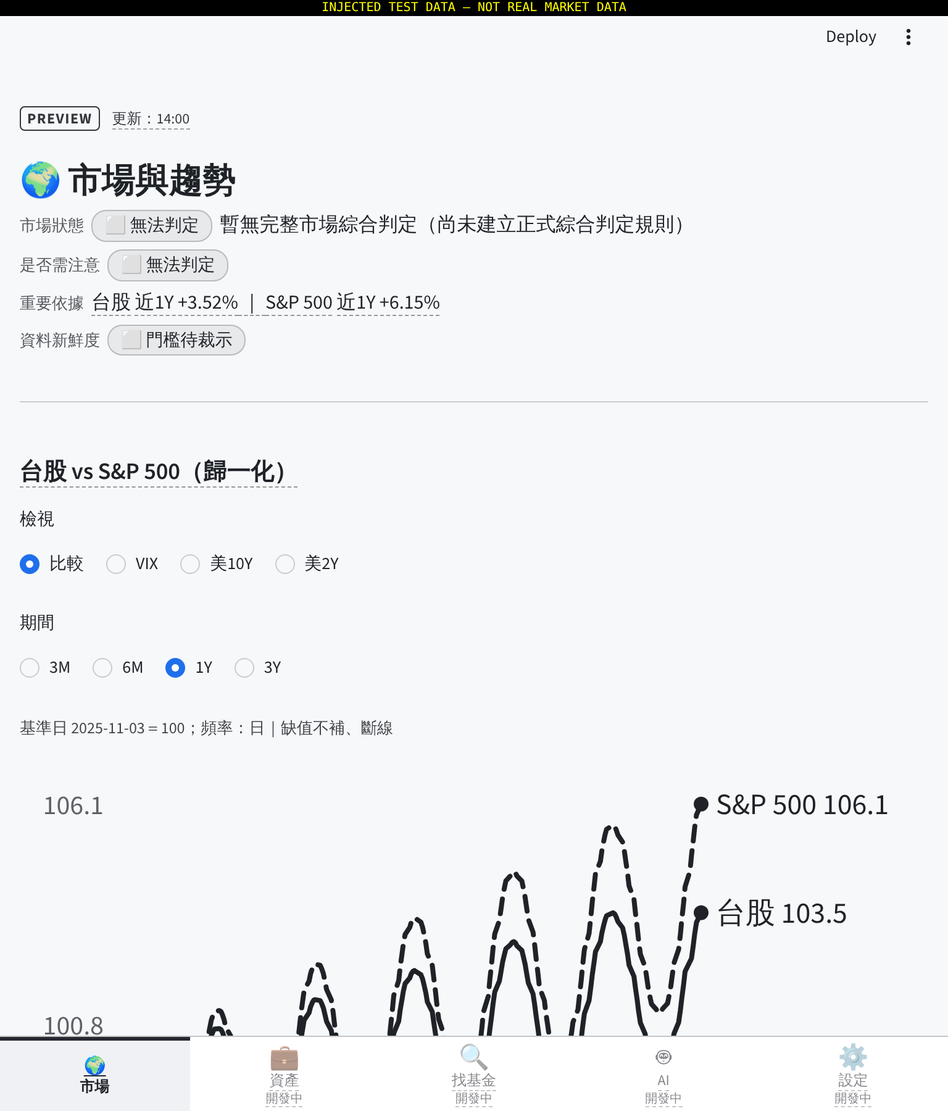
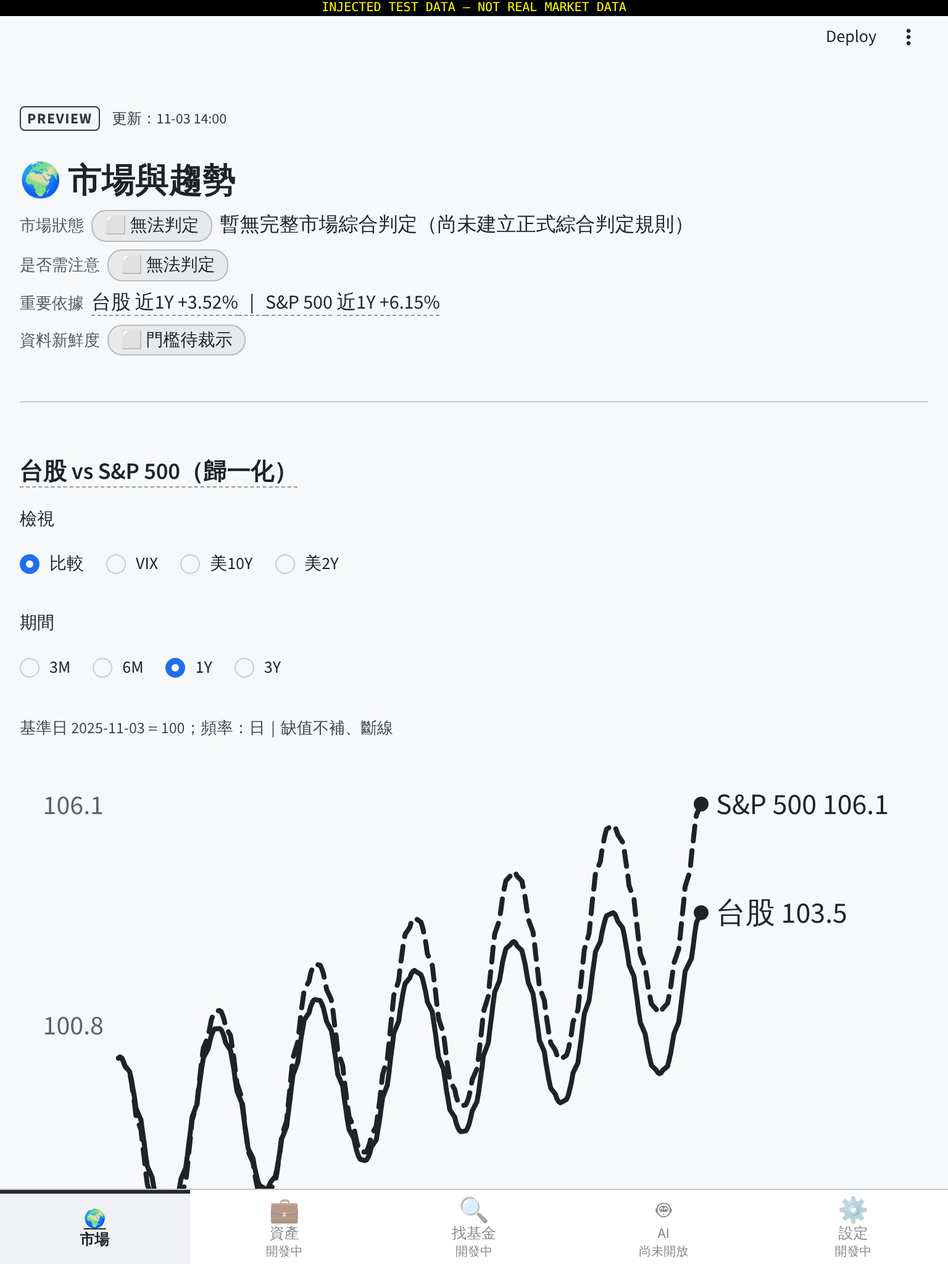
文件與證據：Shell 驗收裁示落地（81 §10.2 降級首屏定義／方案比較／前後計數、80 §17、BACKLOG BL-0536、HANDOFF、量測重拍）

diff --git a/docs/evidence/bl0536_shell_h5_2026-11-03/measure.js b/docs/evidence/bl0536_shell_h5_2026-11-03/measure.js
@@ -1,14 +1,17 @@
-// H5／Shell 量測（Playwright chromium）。用法：node measure.js <scenario> <width> <height> <out.png> [scroll]
+// H5／Shell 量測（Playwright chromium）。用法：node measure.js <scenario> <width> <height> <out.png> [scroll] [viewLabel]
+// viewLabel（選填）：點選主圖檢視的 radio 標籤文字（例：美10Y），量該檢視的首屏。
+// 首屏名額計法（docs/v2/81 第 10.2 節）：頁級 chip（.uv3-chip，含 Status Bar 與側欄內的）＋頁級核心數字（.uv3-evidence，一格一個；格內以狀態 chip 取代數字時只算一格，不重複計 chip）。
 // 資料是 launch_injected_data.py 注入的人造資料，**不是真實行情**；圖底部有黃字標示。
 const { chromium } = require('/opt/node-tools/node_modules/playwright');
 (async () => {
-  const [,, scenario, w, h, out, scroll] = process.argv;
+  const [,, scenario, w, h, out, scroll, viewLabel] = process.argv;
   const b = await chromium.launch();
   const ctx = await b.newContext({ viewport: { width: +w, height: +h }, deviceScaleFactor: 2 });
   const p = await ctx.newPage();
-  await p.goto(`http://localhost:8599/?scenario=${scenario}`, { waitUntil: 'networkidle' });
+  await p.goto(`http://localhost:${process.env.PORT || 8599}/?scenario=${scenario}`, { waitUntil: 'networkidle' });
   await p.waitForSelector('[data-field="market_state"]', { state: 'attached', timeout: 60000 });
   await p.waitForTimeout(1500);
+  if (viewLabel) { await p.getByText(viewLabel, { exact: true }).first().click(); await p.waitForTimeout(2500); }
   const m = await p.evaluate((vh) => {
     const rect = (e) => { if (!e) return null; const r = e.getBoundingClientRect(); return { top: Math.round(r.top), bottom: Math.round(r.bottom), left: Math.round(r.left), right: Math.round(r.right), w: Math.round(r.width), h: Math.round(r.height) }; };
     const vis = (e) => !!e && getComputedStyle(e).display !== 'none' && e.getBoundingClientRect().height > 0;
@@ -19,6 +22,13 @@ const { chromium } = require('/opt/node-tools/node_modules/playwright');
     const chart = q('.uv3-chart');
     const body = [...document.querySelectorAll('.uv3-chip')].filter(e => !e.closest('.uv3-statusbar') && !e.closest('[data-testid="stSidebar"]') && e.getBoundingClientRect().top < navTop);
     const nums = [...document.querySelectorAll('.uv3-evidence')].filter(e => e.getBoundingClientRect().top < navTop);
+    const inView = (e) => vis(e) && e.getBoundingClientRect().top < navTop;
+    const allChips = [...document.querySelectorAll('.uv3-chip')].filter(inView);          // 含 Status Bar、側欄
+    const standalone = allChips.filter(e => !e.closest('.uv3-evidence'));                  // 不在核心數字格內的 chip
+    const sbChips = allChips.filter(e => e.closest('.uv3-statusbar') || e.closest('[data-testid="stSidebar"]')).length;
+    const summary = q('[data-summary="series-status"]');
+    const warnTexts = [...nums.map(e => e.innerText), summary ? summary.innerText : ''].join(' ');
+    const slots = standalone.length + nums.length;
     return {
       scrollWidth: document.documentElement.scrollWidth, clientWidth: document.documentElement.clientWidth,
       bottomNavVisible: vis(nav), sidebarVisible: vis(side), bottomNav: rect(nav), sidebar: rect(side),
@@ -27,6 +37,8 @@ const { chromium } = require('/opt/node-tools/node_modules/playwright');
       marketState: field('market_state'), attention: field('attention'), chart: rect(chart),
       firstScreenVisibleHeight: Math.round(navTop),
       chipsInFirstScreen: body.length, evidenceNumbersInFirstScreen: nums.length,
+      firstScreenSlots: slots, standaloneChips: standalone.length, evidenceSlots: nums.length, chromeChips: sbChips,
+      seriesStatusSummaryVisible: inView(summary), visibleWarning: /資料未備|取數失敗|尚未設定|缺資料/.test(warnTexts),
       main: rect(q('.stMainBlockContainer')),
     };
   }, +h);

diff --git a/docs/evidence/bl0536_shell_h5_2026-11-03/launch_injected_data.py b/docs/evidence/bl0536_shell_h5_2026-11-03/launch_injected_data.py
@@ -14,6 +14,8 @@ elif scenario == "both_missing": kw = dict(tw="missing", us="missing")
 elif scenario == "stale": kw = dict(us_dates=ms.weekdays("2021-06-01", "2026-10-30"))
 elif scenario == "partial": kw = dict(us_dates=ms.weekdays("2024-11-01", ms.LAST_US))
 elif scenario == "nokey": kw = dict(key=""); tkw = dict(errors={"credit_spread_pct": "未設定 FRED_API_KEY", "term_spread_pct": "未設定 FRED_API_KEY"}, drop=("credit_spread_pct", "term_spread_pct"))
+elif scenario == "all_missing": kw = dict(tw="missing", us="missing", vx="missing"); tkw = dict(drop=("vol_index", "credit_spread_pct", "term_spread_pct", "policy_rate_pct"))
+elif scenario == "all_failed": kw = dict(tw="error", us="error", vx="error"); tkw = dict(errors={k: "HTTP 429 injected" for k in ("vol_index", "credit_spread_pct", "term_spread_pct", "policy_rate_pct")}, drop=("vol_index", "credit_spread_pct", "term_spread_pct", "policy_rate_pct"))
 elif scenario == "negative":
     pass
 v = ms.view(**kw)

diff --git a/docs/BACKLOG.md b/docs/BACKLOG.md
@@ -152,6 +152,7 @@
 - **2026-11-03 BL-0536 🌍 正式字樣落盤＋工程資訊外漏守衛＋MKT 對照登記（`DEC-2026-11-03-07`；PR 待開）**：客戶九項正式字樣進 `shared/ui_semantics/rules.py::APPROVED_WORDING`（畫面不再標 pending；`chart_empty` PENDING 列移除）；一般 UI 移除環境變數名與內部原因代碼，新增靜態＋渲染外漏守衛；依據卡 MKT-1～3 對照 44／72（標籤、MKT-2 兩鍵、位數）；~~首屏拆兩枚 chip 超過預算，登記為 Decision Gate、未實作（BL-0536 列內）；~~ → 客戶 2026-11-03 已裁示採 C 並實作、同批用字統一（`DEC-2026-11-03-09`；狀態更新，不是漏刪；決策者：客戶；#1132 scope 已涵蓋）；未新增 BL 列，BACKLOG §3 列數統計未重算；執行組單組寫成，未經第二組驗證。
 - **2026-11-02 BL-0536 批 2a（PORT）＋批 2b（呈現規則資料表／design token）登記（同一 PR、PR 待開；不構成動工授權；`DEC-2026-11-02-05` NG-2 A、`DEC-2026-11-02-09`）**：BL-0536 列尾補批 2a／2b 狀態與後續子項 BL-0536-F1～F6、BL-0536-W1～W5（列內追蹤，不另開 BL，`PROJECT_RULES.md` 13.4 第 3 條）；未新增 BL 列，BACKLOG §3 列數統計未重算；執行組單組寫成，未經第二組驗證。
 - **2026-11-03 Canonical Rule Convergence 登記（docs-only；`DEC-2026-11-03-08`）**：BL-0536 列瘦身為單一狀態（舊整列逐字移 `docs/evidence/history/`）；新增 BL-0538（Latest-Rule-Only 讀法確認，待客戶裁示）、BL-0539（🌍 首屏拆 chip，待客戶裁示）、BL-0540（Missing 字樣／資料健康度承接／🤖 輸出對映，待客戶裁示）、BL-0541（第二階段文件收斂，open）；本批不碰任何 production code。
+- **2026-11-03 Shell 定字與降級首屏收尾登記（`DEC-2026-11-03-11`；不構成動工授權）**：客戶對 #1134 的驗收裁示落地於 BL-0536 列（Shell 字樣單一 SSOT、Status Bar 純文字、降級第一屏 ≤5、仍待驗證六項逐條登記）；逐字 `docs/evidence/decisions/2026-11-03_shell_wording_and_degraded_first_screen_ruling.md`；方案比較與前後計數 `docs/v2/81` 第 10.2 節。不開新 refresh pipeline；💼 線框為其後一批、尚未開始。
 - **2026-10-30 D-3 阻擋項修正批登記（`DEC-2026-10-30-04`；代碼 commit `dc670882`）**：BL-0411 改「fixed（待獨立稽核）」；BL-0525 列尾補 BL-0525-D3 子項狀態（F-13、F-14、F-19、F-2、F-18 已修待獨立稽核；P3 未實作；F-17 未修）；未新增 BL 列，BACKLOG §3 列數統計未重算；實作組單組寫成，未經第二組驗證。
 - **2026-10-30 BL-0525-D3／BL-0525-OAUTH 客戶裁示落盤批登記（`DEC-2026-10-30-04`、`-05`）**：BL-0525 列尾補兩子項裁示（BL-0525-D3 已裁採 P3／β，下一步實作，列內追蹤必修 F-13、F-2、F-14、F-19 與 BL-0411；BL-0525-OAUTH 以 F closed；G deferred）；BL-0411 列改為客戶已裁的 P3 production 前必修（需客戶裁示欄改「否」）；未新增 BL 列，BACKLOG §3 列數統計未重算；由文件組單組寫成，未經第二組驗證。
 - **有到期日**：BL-0217（2026-11-24（約；上限約 11-26））
@@ -942,7 +943,7 @@
 | BL-0533 | ~~open（proposal 未起草；登記不構成動工授權）~~ → ~~open（proposal 已落盤 `docs/v2/80_new_ui2_architecture_proposal.md`；獨立稽核無 blocker、14 個 non-blocker 已修正——總管回報；子項 NG1～NG5 待客戶裁示；登記不構成動工授權）（狀態更新，不是漏刪；2026-11-02）~~ → closed（已裁示：NG-1～NG-5 全採 A，`DEC-2026-11-02-05`；architecture、Reuse Matrix、migration boundary 凍結，五頁 wireframe 為正式 implementation input；實作續於 BL-0536、cutover 守衛 BL-0535；狀態更新，不是漏刪；2026-11-02） | UI／architecture（Decision Gate） | 2026-11-02 | **New UI2 Architecture Proposal＋Reuse Matrix＋五頁 wireframe＋migration／cutover（客戶 2026-11-02 第四則指示；proposal-only）**：依 `DEC-2026-11-02-03` 提出 New UI2（greenfield presentation layer）的架構提案：盤點 ui_v2 與既有 data／services／deterministic logic 的可重用項（Reuse Matrix；不盲目重寫）、五頁 IA 不變的 wireframe（New UI2 版面；79 §9 只是語意示意）、migration／cutover 計畫（預設方向見 DEC；禁止先刪 ui_v2）。~~**待客戶裁示**：目錄命名、ui_v2 freeze policy 細節、preview／cutover 細節、視覺語言沿用範圍、哪些既有 presentation DEC 需 amendment。~~（→ 2026-11-02 已裁示，`DEC-2026-11-02-05`）新增理由：新架構 Gate 有獨立驗收（`PROJECT_RULES.md` 13.4 第 3 條新增條件）。【2026-11-02 proposal 落盤（`docs/v2/80`；狀態更新，不是漏刪）】子項（本列內追蹤，不另開 BL，依 `PROJECT_RULES.md` 13.4 第 3 條；推薦見 80 第 12 節；~~**皆未裁示**，不得記為已決定~~（→ 2026-11-02 皆已裁示 A，`DEC-2026-11-02-05`））：**BL-0533-NG1**｜目錄命名（`ui_v3/`／`ui_next/`／`ui2/`）｜狀態：~~待客戶裁示~~ → 已裁示 A（`DEC-2026-11-02-05`）｜dependency：無｜Phase／Batch：Step 3（與 UI-1～UI-15 一次裁示）｜Decision Gate：是｜類別：UI／architecture｜完成條件：客戶裁示＋DEC；80 `<pkg>` 佔位符回填；**BL-0533-NG2**｜ui_v2 freeze policy（maintenance-only＋行為不變抽取／re-export shim、hard freeze、繼續演進）＋附題：BL-0532 Missing 統一是否也做在 ui_v2｜狀態：~~待客戶裁示~~ → 已裁示 A（`DEC-2026-11-02-05`）｜dependency：無；附題連動 BL-0532｜Phase／Batch：Step 3｜Decision Gate：是｜類別：UI／architecture（涉及 PORT 方式＝migration）｜完成條件：客戶裁示＋DEC；BL-0532 列尾依附題結果加指標；**BL-0533-NG3**｜Preview／cutover（另建 preview app、同 app 隱藏入口、直接替換）｜狀態：~~待客戶裁示~~ → 已裁示 A（`DEC-2026-11-02-05`）｜dependency：選另建 app 時需客戶建 app 與 OAuth redirect 另登記（80 R4）｜Phase／Batch：Step 3｜Decision Gate：是｜類別：UI／architecture（migration）｜完成條件：客戶裁示＋DEC；cutover 步驟依 80 第 10 節回寫；**BL-0533-NG4**｜New UI2 視覺語言沿用範圍｜狀態：~~待客戶裁示~~ → 已裁示 A（`DEC-2026-11-02-05`）｜dependency：無｜Phase／Batch：Step 3｜Decision Gate：是｜類別：UI｜完成條件：客戶裁示＋DEC；Design token 命名依裁示訂定；**BL-0533-NG5**｜Presentation DEC 釋放規則與 amendment 清單（含 `DEC-2026-10-30-01` D1 即 79 UI-12(1)，需客戶明確覆議）｜狀態：~~待客戶裁示~~ → 已裁示 A（`DEC-2026-11-02-05`）｜dependency：UI-12(1)｜Phase／Batch：Step 3｜Decision Gate：是｜類別：UI／governance｜完成條件：客戶裁示＋DEC；被 amend 的 DEC 就地加指標（原字保留）。**原 NG-6（前端框架）已轉為內部決定（維持 Streamlit 現況），不是客戶 Gate**（80 第 12 節附註；`PROJECT_RULES.md` 13.4 第 6 條）。客戶核准後，下一則訊息只能是 Model／Effort Change Gate（`DEC-2026-11-02-04`）。文件組單組。 | `DEC-2026-11-02-03`；`docs/evidence/decisions/2026-11-02_new_ui2_architecture_direction.md` | 是（New UI2 任何實作；BL-0525 Batch E、BL-0532 的實作落點） | #1119 合併 | ~~proposal 落盤 → 客戶裁示命名／freeze／cutover／視覺沿用／presentation DEC amendment → 凍結後才可實作；~~（2026-11-02 已裁示並凍結）關閉依據：`DEC-2026-11-02-05`（本 PR）；被 amend 的 DEC 已就地加指標；實作見 BL-0536；登記不構成動工授權（`CLAUDE.md` §-1） | ~~是~~ → 否（已裁示） |
 | BL-0534 | open（amendment 文字未起草；起草後送客戶核准） | governance（frozen SSOT amendment／data semantics） | 2026-11-02 | **44 `dividend.pay_date` 語意 amendment：Payment Date 與 Estimated Bank Credit Window 拆開**：frozen `docs/v2/44_fund_ui_ssot.md` 第四節 4.3 表 `pay_date` 語意欄寫「實際入帳日；尚未公布時為空」，與 Final Contract（`docs/v2/79` §17.3）「`payment_date`＝基金公司／基金正式發放日，**不得**稱實際銀行入帳日；`estimated_bank_credit_window`＝預估銀行／平台實際入帳區間，無可支持的 deterministic contract 時為 Missing」衝突。客戶裁示：不得直接偷改 frozen 44，建立正式 amendment，把 Payment Date 與 Estimated Bank Credit Window 清楚拆開（`DEC-2026-11-02-07`）。**Gate／程序**：依 44 既有修改程序 ——`PROJECT_RULES.md` 1.2「改凍結檔另開一輪」（交接本第 7 節〈沿用〉約 :4215）＋第 4 節 Stop／Decision Gate（frozen SSOT、正式資料語意）；前例 `DEC-2026-10-27-13`（44 衝突走正式最小解凍、逐項裁示，不是整份放行）與 `DEC-2026-10-27-02`（有限解凍）。44 檔頭未見另一套獨立的解凍程序條文（執行組以 `grep -n 解凍` 掃 44，只見各輪就地解凍註記；不宣稱窮舉）。動 44 時須同步 md5／行數守衛（例 `tests/ui_v2/test_alo_logic.py` 以 md5 鎖 44，`docs/v2/80` 第 11 節）。 | `DEC-2026-11-02-07`；`docs/v2/79` §17.3、§17.4、§17.14 第 4 項；`docs/v2/44_fund_ui_ssot.md` 第四節 4.3 表（只讀） | 是（任何在 UI 以 `pay_date` 表示銀行／平台入帳日的呈現；`ui_v3` 💼 Dividend Calendar 的日期欄） | 無 | 起草最小 amendment 文字（只動 4.3 `pay_date` 語意與必要的新欄位定義，不整份解凍）→ 依上列程序送客戶核准 → 依核准文字修改 44 並同步守衛 → 資料層欄名與日期狀態值域（`confirmed`／`scheduled`／`estimated`／`unavailable`，79 §17.4；屬 data 層候選值，對齊前須走其自身的 data-semantics Gate）對齊 → 確認沒有任何 UI 把 `pay_date` 當銀行入帳日。**完成條件**：amendment 文字經客戶核准；44 經正式程序更新；資料層欄名／狀態對齊 79 §17（狀態值域以其 data-semantics Gate 核准者為準）；無 UI 以 `pay_date` 作銀行入帳日。登記不構成動工授權（`CLAUDE.md` §-1） | 是（amendment 文字） |
 | BL-0535 | open（cutover 批強制驗收項；~~`ui_v3` 尚不存在，現在無法滿足~~ → 2026-11-03 更新：`ui_v3` 已存在、cutover 前部分守衛已存在，cutover 後守衛仍無法存在，見列尾；`DEC-2026-11-03-02` G5） | governance（cutover acceptance guard：測試＋可驗證證據） | 2026-11-02 | **Cutover navigation／entrypoint 暴露守衛**：客戶可稽核要求「New UI2 cutover 後，正式 Streamlit navigation／entrypoint 不得再暴露 Old UI 或 `ui_v2`」，需有測試或可驗證證據（`DEC-2026-11-02-06`）。內容：(1) 自動化測試斷言正式 entrypoint 只註冊 `ui_v3` 頁，且不 import／不連結 Old UI（`app.py` 樹／`ui/`）或任何 `ui_v2` 頁；(2) 無舊版／新版切換 widget；(3) Streamlit Cloud main file 設定的可驗證紀錄；(4) 正式 URL 與 OAuth redirect 未變的紀錄（若無法維持，屆時走 Stop／Decision Gate，不得自行改 URL 或修改 Old UI `app.py`）。（執行組讀法，可被客戶推翻：客戶原文為「測試或可驗證證據」、URL「優先維持、不任意改」；本列把 (1)～(4) 全列為必備屬從嚴。） | `DEC-2026-11-02-06`；`docs/v2/80_new_ui2_architecture_proposal.md` 第 10 節（階段 6 switch default）；`PROJECT_RULES.md` 13.2 稽核檢查項 | 是（切正式預設；必須在切換前通過） | `ui_v3` 存在且 Preview App 驗收通過（80 第 10 節階段 4～5） | New UI2 cutover 批內建立並跑綠；cutover PR 附 Cloud 設定與 URL／OAuth 紀錄。**完成條件**：上列 (1)～(4) 全部成立且在切換正式預設之前通過。⚠ ~~在 `ui_v3` 存在前不得宣稱本守衛已存在。~~ → **2026-11-03 更新（有意識的更正，不是漏刪）**：`ui_v3` 已存在；cutover 前的部分守衛已存在——`tests/ui_v3/test_ui_v3_preview_not_formal_guard.py`（正式入口候選不得引用 `ui_v3`）與頁序登錄守衛 `tests/ui_v3/test_ui_v3_page_registry_guard.py`；**本列要求的 cutover 後守衛（正式 entrypoint 只註冊 `ui_v3` 頁、無切換器）在 cutover 之前仍無法存在，不得宣稱已有**。登記不構成動工授權（`CLAUDE.md` §-1） | 否（規則已裁示；維持 URL／OAuth 若需動 `app.py` 則屆時需客戶裁示） |
-| BL-0536 | in progress（New UI2 `ui_v3` 多批實作；現況與唯一下一接手點見 `docs/HANDOFF.md`；舊狀態敘事已移歷史檔，不是現行狀態） | UX debt（New UI2 `ui_v3` presentation implementation；多批） | 2026-11-02 | **`ui_v3` presentation implementation（New UI2）**：依 `docs/v2/80_new_ui2_architecture_proposal.md` 第 13 節順序實作 —— 批 1：PORT 領域計算到共同層（＋ui_v2 re-export shim、import 守衛白名單、golden 不變）、`ui_v3` 骨架、Preview 入口、New UI2 import／readonly／頁序守衛、fake scenario fixtures 與 view model 骨架；批 2：呈現規則資料表＋Design token 命名；批 3～：逐頁先出 New UI2 wireframe 送客戶（`CLAUDE.md` §-1.5.4）→ view model → page → adapters → Visual Fidelity；後續 Digest／Risk Cap／Action State／OneBrain 接口另走 Gate。輸入：architecture／Reuse Matrix／migration boundary 已凍結、五頁 wireframe 為 implementation input、79 語意 contract（`DEC-2026-11-02-05`、`-07`）。⚠ **PORT 批屬 formula／data semantics 等級**：須至少 1 組真正獨立稽核（`DEC-2026-10-16-05`），並依 `PROJECT_RULES.md` 5.1 第 10、11 點於開工前重新評估 Model／Effort（可能需另一次 Gate）。 | `DEC-2026-11-02-05`、`DEC-2026-11-02-06`、`DEC-2026-11-02-07`；`docs/v2/80` 第 10、13 節；`docs/v2/79`；`DEC-2026-11-03-01`～`-09`；`docs/v2/81` | 否（本身是下一階段主線） | 規則收斂批的獨立稽核增量、CI、合併（以 GitHub 為準） | **現況（2026-11-03）**：批 1 骨架（#1122）、批 2a PORT＋2b 呈現規則資料表（#1123）、🌍 wireframe（#1124；`DEC-2026-11-03-01`）、H1（#1125）、H1b（#1127）、H2（#1128）、H3（#1130）、🌍 Preview rendering（#1131）、🌍 九項正式字樣＋首屏採 C＋用字統一（#1132；`DEC-2026-11-03-07`、`-09`；首屏 Gate 已裁示結案、BL-0539 closed）已合併。**Navigation Shell 批（本批；PR 待開，獨立稽核待做）**：全站共用 Shell（桌機側欄＋手機底部導覽＋Status Bar＋更新資料 CTA）已實作於 Preview App，選型與盤點見 `docs/v2/80` 第 17 節、登記 `DEC-2026-11-03-10`；H5 390px／1280px 首屏實測完成（注入的人造資料，`docs/evidence/bl0536_shell_h5_2026-11-03/`），未發現首屏預算衝突；更新資料 CTA 因無安全可接的正式 refresh 流程而停用並標示原因（未自創 pipeline）；**待客戶裁示用字**：Shell pending 字樣清單（80 第 17.4 節）；**待客戶確認**：Status Bar 不計入首屏預算的讀法、資料全取得時不寫「正常」、降級情境（both_missing／failed）首屏 chip 形式元素較多是否另需預算規則（總管讀法，不裁決）。**非阻塞追蹤（只登記，不修）**：Streamlit 內部 data-testid 依賴無自動守衛；深色模式底部列配色與頁面背景不一致（README 已自陳未驗）；evidence 的 `launch_injected_data.py` ROOT 寫死。**現行下一步**：(1) Navigation Shell 批的獨立稽核、CI、合併，再由客戶驗收 Preview（見 `docs/HANDOFF.md`）；(2) 待客戶裁示：BL-0369／H4（freshness 門檻；未裁示前首屏只顯示 `⬜ 門檻待裁示`）、仍為暫時字樣者（`docs/v2/81` 10.1 末段清單）、依據卡塊代號 `MKT-n` 是否顯示、依據卡資料日落點（D3 (i)）、匯率閘門開啟前 `業務例外`／方向文字（81 10.3）；(3) wireframe Gate 順序 💼（G2；連同 β 頁級字樣 W2 與 `chart_empty` 字樣問題 W1 一併提）→ 🔍（G3）→ ⚙（G4）；🤖 依 Phase 7；各頁核准前不寫該頁 `ui_v3` 代碼；(4) ~~H5 首屏預算實測~~（→ 已於 Navigation Shell 批完成：3 chip＋2 數字＝5、無衝突，見 `docs/v2/80` 17.5；狀態更新，不是漏刪）；(5) cutover 前 BL-0535。**未做／殘餘**：期間按鈕標明資料不足（81 3.3）；真實 Yahoo／FRED 連線未驗（環境限制）；週末起點殘留邊界維持 A2 contract（`DEC-2026-11-03-06`，需真實資料證明有語意錯誤才重開）。**之後**：~~Navigation Shell＋H5 390px 驗收（尚未開始）~~（→ 已實作，見上；狀態更新，不是漏刪）。**規則**：每個 `ui_v3` 實作批至少 1 組真正獨立稽核（客戶 2026-11-02 逐字；`DEC-2026-11-03-02` G3）；登記不構成動工授權（`CLAUDE.md` §-1）。**舊敘事全文**（批 1～Preview rendering 實作細節、獨立稽核紀錄、Minimum-Cost 比較依據；NOT CURRENT）：`docs/evidence/history/2026-11-03_backlog_bl0536_row.md`。 | 是（各頁 wireframe 核准；上列待裁示項）
+| BL-0536 | in progress（New UI2 `ui_v3` 多批實作；現況與唯一下一接手點見 `docs/HANDOFF.md`；舊狀態敘事已移歷史檔，不是現行狀態） | UX debt（New UI2 `ui_v3` presentation implementation；多批） | 2026-11-02 | **`ui_v3` presentation implementation（New UI2）**：依 `docs/v2/80_new_ui2_architecture_proposal.md` 第 13 節順序實作 —— 批 1：PORT 領域計算到共同層（＋ui_v2 re-export shim、import 守衛白名單、golden 不變）、`ui_v3` 骨架、Preview 入口、New UI2 import／readonly／頁序守衛、fake scenario fixtures 與 view model 骨架；批 2：呈現規則資料表＋Design token 命名；批 3～：逐頁先出 New UI2 wireframe 送客戶（`CLAUDE.md` §-1.5.4）→ view model → page → adapters → Visual Fidelity；後續 Digest／Risk Cap／Action State／OneBrain 接口另走 Gate。輸入：architecture／Reuse Matrix／migration boundary 已凍結、五頁 wireframe 為 implementation input、79 語意 contract（`DEC-2026-11-02-05`、`-07`）。⚠ **PORT 批屬 formula／data semantics 等級**：須至少 1 組真正獨立稽核（`DEC-2026-10-16-05`），並依 `PROJECT_RULES.md` 5.1 第 10、11 點於開工前重新評估 Model／Effort（可能需另一次 Gate）。 | `DEC-2026-11-02-05`、`DEC-2026-11-02-06`、`DEC-2026-11-02-07`；`docs/v2/80` 第 10、13 節；`docs/v2/79`；`DEC-2026-11-03-01`～`-11`；`docs/v2/81` | 否（本身是下一階段主線） | 規則收斂批的獨立稽核增量、CI、合併（以 GitHub 為準） | **現況（2026-11-03）**：批 1 骨架（#1122）、批 2a PORT＋2b 呈現規則資料表（#1123）、🌍 wireframe（#1124；`DEC-2026-11-03-01`）、H1（#1125）、H1b（#1127）、H2（#1128）、H3（#1130）、🌍 Preview rendering（#1131）、🌍 九項正式字樣＋首屏採 C＋用字統一（#1132；`DEC-2026-11-03-07`、`-09`；首屏 Gate 已裁示結案、BL-0539 closed）已合併。Navigation Shell＋H5（#1134；`DEC-2026-11-03-10`）已合併。**Shell 定字與降級首屏收尾批（本批；`DEC-2026-11-03-11`；PR 待開，獨立稽核待做）**：客戶 2026-11-03 驗收裁示已落地——Shell 字樣已正式定字（單一 SSOT 在規則表 `shell_*` 鍵，`preview_wording` 舊暫擬定義退役）；Status Bar 維持純文字且不放 chip／核心數字元素；全取得不寫「正常」；降級情境第一屏由 7 個名額收斂為 5（圖下逐序列非 ok 狀態改一行文字摘要，方案比較與前後計數見 `docs/v2/81` 第 10.2 節，量測 `docs/evidence/bl0536_shell_h5_2026-11-03/`）。**仍待驗證（客戶裁示第五項；保留、不得宣稱已通過）**：(a) iOS／Android 實機；(b) Safari；(c) 深色模式（底部導覽配色）；(d) Yahoo／FRED 真實連線；(e) Streamlit 升版後導覽相容性（CSS 依賴內部 `data-testid`；想法：以 Playwright 量測做自動守衛，尚未實作）；(f) 安全的資料更新入口（更新資料 CTA 目前停用；須有正式 refresh 流程，不得為完成 Shell 而開始新 refresh pipeline）。**待客戶確認**：Status Bar 與側欄狀態句內的「n／m 項已取得」不算頁級核心數字的讀法（若整句算一個名額，降級會是 6，須回 Gate；總管讀法，不裁決）。**非阻塞追蹤（只登記，不修）**：Streamlit 內部 data-testid 依賴無自動守衛；evidence 的 `launch_injected_data.py` ROOT 寫死。**現行下一步**：(1) Shell 定字與降級首屏收尾批的獨立稽核、CI、合併（見 `docs/HANDOFF.md`）；之後才是 💼 線框草稿（尚未開始；本批不做）；(2) 待客戶裁示：BL-0369／H4（freshness 門檻；未裁示前首屏只顯示 `⬜ 門檻待裁示`）、仍為暫時字樣者（`docs/v2/81` 10.1 末段清單）、依據卡塊代號 `MKT-n` 是否顯示、依據卡資料日落點（D3 (i)）、匯率閘門開啟前 `業務例外`／方向文字（81 10.3）；(3) wireframe Gate 順序 💼（G2；連同 β 頁級字樣 W2 與 `chart_empty` 字樣問題 W1 一併提）→ 🔍（G3）→ ⚙（G4）；🤖 依 Phase 7；各頁核准前不寫該頁 `ui_v3` 代碼；(4) ~~H5 首屏預算實測~~（→ 已完成：常態與降級情境第一屏皆為 5，見 `docs/v2/80` 17.5 與 `docs/v2/81` 10.2；狀態更新，不是漏刪）；(5) cutover 前 BL-0535。**未做／殘餘**：期間按鈕標明資料不足（81 3.3）；真實 Yahoo／FRED 連線未驗（環境限制）；週末起點殘留邊界維持 A2 contract（`DEC-2026-11-03-06`，需真實資料證明有語意錯誤才重開）。**之後**：~~Navigation Shell＋H5 390px 驗收（尚未開始）~~（→ 已實作，見上；狀態更新，不是漏刪）。**規則**：每個 `ui_v3` 實作批至少 1 組真正獨立稽核（客戶 2026-11-02 逐字；`DEC-2026-11-03-02` G3）；登記不構成動工授權（`CLAUDE.md` §-1）。**舊敘事全文**（批 1～Preview rendering 實作細節、獨立稽核紀錄、Minimum-Cost 比較依據；NOT CURRENT）：`docs/evidence/history/2026-11-03_backlog_bl0536_row.md`。 | 是（各頁 wireframe 核准；上列待裁示項）
 | BL-0537 | 待客戶裁示（未建置；登記不構成動工授權） | governance（機械守衛） | 2026-11-03 | **Old UI／`ui_v2` 凍結清單機械守衛**：客戶永久規則「Old UI 不修改」「`ui_v2` maintenance-only、不做新版面」目前靠文件與審查維持，沒有機械守衛（Prior-Ruling Audit 發現）。候選做法：以凍結清單（檔案雜湊或 diff 範圍）在 CI 偵測 Old UI（`app.py`、`ui/`）與 `ui_v2/` 的變動並要求明示例外；例外（安全／正確性修補、BL-0532 缺資料字樣統一、PORT shim）須能登記。（執行組讀法，可被客戶推翻：做不做、範圍多大屬產品治理決定；本批只加一個啟發式小測試——根目錄不得出現 `pages/` 目錄——它不證明沒有其他暴露路徑。） | `DEC-2026-11-02-02`、`-05`、`-06`、`DEC-2026-11-03-02`；`tests/ui_v3/test_ui_v3_preview_not_formal_guard.py` | 否 | 客戶裁示是否要建與例外登記方式 | 待客戶裁示後派工；不得自行動工 | 是（是否要建、例外規則） |
 | BL-0538 | 待客戶裁示（登記不構成動工授權） | governance | 2026-11-03 | **Latest-Rule-Only 讀法確認（G-1）**：客戶 2026-11-03 指示現行區只留最新規則、歷史移出，與 `PROJECT_RULES.md` 0.5 舊 hygiene (1)(2)「舊內容保留、就地標示」字面衝突。總管讀法（可被客戶推翻）＝採方案 B：舊句逐字搬 `docs/evidence/history/`（附 sha256 清冊與機械比對），現行區留 `superseded:` 指標；`DECISIONS.md` 維持追加式；`CLAUDE.md`／`PROCESS.md`／`EXCEPTIONS.md`／frozen 44、57、CONSTITUTION 不動。本批已依此讀法改寫 0.5 並搬出第一階段內容。**位階張力（需客戶確認）**：0.5 改寫與 `CLAUDE.md` §-1.5.1b 裁決一理由 3（慣例「舊條文保留不刪＋加刪除線＋兩邊理由並陳」）及 `PROCESS.md` 同步段有張力；`CLAUDE.md` 未改、本批判斷不構成硬違反（`CLAUDE.md` 等上位檔照舊適用其體例，本檔與 BACKLOG／HANDOFF 採新體例），但屬位階解讀，須客戶確認。 | `DEC-2026-11-03-08`；`docs/evidence/canonical_convergence_2026-11-03/`；`docs/evidence/history/README.md` | 否 | 客戶確認讀法；若否決，history 檔與 0.5 舊文可由 `docs/evidence/history/` 逐字還原 | 待客戶確認；否決時依 history 逐字還原 | 是（確認讀法） |
 | BL-0539 | closed（客戶 2026-11-03 已裁示採 C 並實作，`DEC-2026-11-03-09`，#1132；狀態更新，不是漏刪；決策者：客戶） | UX debt（UI） | 2026-11-03 | **🌍 首屏「市場狀態」「是否需注意」拆兩枚 chip**：~~待客戶裁示（Decision Gate；未實作）：現況共用一枚 chip，拆兩枚＝4 chip＋2 數字＝6 超過 44 之十九其一之一第 2 條上限；總管推薦 (C)，備選 (A) amend 44 預算為 ≤6、(B) 維持一枚共用 chip~~ → 客戶採 C：兩枚獨立 chip、基準日改圖表附近純文字揭露行、首屏 3 chip＋2 數字＝5 不變、不修訂 frozen 44、不放寬其他頁；同批用字統一（「⛔ 利率資料來源尚未設定」「美10Y」「美2Y」）。 | `docs/v2/81` 10.2；`DEC-2026-11-03-09`；BL-0536-H5 | 否 | 無（H5 首屏預算實測併入 BL-0536 現行下一步） | closed | 否 |

diff --git a/docs/v2/81_new_ui2_wireframe_01_market.md b/docs/v2/81_new_ui2_wireframe_01_market.md
@@ -512,6 +512,41 @@
 
 **用字統一（同裁示第 2 項）**：「⛔ 利率資料來源尚未設定」（本頁第一次完整句；同頁其餘位置維持狀態族短句「⛔ 尚未設定」；frozen 44 的 `NOT_CONFIGURED_FORM` 句型不改）、序列名與 Secondary 子標籤「美10Y」「美2Y」（無空格）。三個舊字樣由守衛禁用；本檔第 2 節現況盤點、第 7 節 Q3 與先前裁示逐字存檔內的舊寫法是當時原文，保留不改。
 
+**降級情境的首屏名額（客戶 2026-11-03 Shell 驗收裁示第一、三項；`DEC-2026-11-03-11`；逐字 `docs/evidence/decisions/2026-11-03_shell_wording_and_degraded_first_screen_ruling.md`）**
+
+客戶不接受降級情境的 7 chip＋2 數字作為最終第一屏，要求在不改 frozen 44、不隱藏重要 Missing、不改資料語意下收斂到既有 ≤5。本批的結論與做法如下（presentation 層；不改 formula、資料、狀態判定）：
+
+- **「第一屏」的計數範圍（定義）**：Status Bar＋摘要區＋Primary 區（標題、檢視與期間切換、揭露行、圖、圖下逐序列資訊），也就是第一張 Secondary／依據卡之前的所有頁級內容。**不是只量摘要區**（#1134 的 17.5 節舊讀法把降級時 Primary 區的 chip 排除在「摘要區恆為 5」之外，客戶已不接受）。
+- **名額**：頁級 chip（`.uv3-chip`，**含 Status Bar 與側欄裡的**）＋頁級核心數字（`.uv3-evidence` 一格一個；格內以狀態 chip 取代數字時只算一格，不重複計 chip）。期間／檢視切換是 display control、圖軸與末點標籤不計。#1134 當時的「7 chip＋2 數字」是把格內的 chip 又計一次（巢狀重複）；同一量法去重後降級實為 7 個名額，仍超過 5。
+- **Status Bar 讀法（客戶第一項）**：Status Bar 與側欄狀態區維持純文字（PREVIEW、資料狀態一句、更新時間），**不放任何 chip 形式元素、不放核心數字元素**；沒有取得時間時的缺資料字樣也是純文字。守衛鎖「兩處零 `uv3-chip`／零 `uv3-evidence`」。【I】資料狀態句內的「n／m 項已取得」是句子裡的計數，不是頁級核心數字；若客戶認為該句整句要算一個名額，降級會是 6，須回 Decision Gate（本批不裁決）。
+- **全取得時**不顯示「正常／資料齊」（客戶第二項，維持）；一項也沒取得時用已核准的計數字樣「{n}／{m} 項已取得」，不另造「全缺」句型。
+
+**方案比較（`PROJECT_RULES.md` 9.2 Minimum-Cost Correct Path；降級第一屏回歸方案）**
+
+| 方案 | 做法 | 降級名額 | 回歸面 | 判定 |
+|---|---|---|---|---|
+| A | 逐序列 chip 照留，amend 44 預算為 ≤7 | 7 | 動 frozen 44＋全站其他頁預算 | 不可選（客戶禁止；不放寬 44） |
+| **B（採用）** | 圖下逐序列的**非 ok 狀態**收成**一行純文字摘要**（序列名＋該序列自己的狀態與原因，字樣與符號不變；不合併狀態、不寫正常）；頁級的 3 chip＋2 格不動 | **5**（3＋2） | `ui_v3/pages/mkt.py` 一個函式（`primary_notes_html`）＋守衛；資料、adapter、view model、44、規則表皆未動 | 最小回歸；頁級警示（Status Bar 計數句、依據格內的狀態 chip）與逐序列原因（圖下摘要、`▸ 各項資料狀態`、`▸ 來源與限制`）全保留 |
+| C | 逐序列狀態全收進 `▸ 各項資料狀態` expander，首屏只留頁級 | 5 | 同 B | 不採：Primary 檢視為單一缺值序列（例：美10Y 且未設定來源）時圖上方無任何說明，可見警示少一層，與「頁級必要狀態與失敗警示保留」相衝 |
+| D | 降級時兩個「重要依據」格併成一枚摘要 chip | 4 | 動首屏欄位結構（Q4）與依據格語意、81 第 3.1 節與多組守衛 | 不採：回歸面最大，且改變已裁示的首屏欄位 |
+
+選 B 的理由是它同時滿足四項：名額 ≤5、頁級警示不減、逐序列原因不隱藏、回歸只有一處。未選 C 的唯一原因是「可見警示」；若客戶偏好 C，只要把摘要行改入 expander，兩者互相可逆。本表為執行組讀法，可被客戶推翻；單組整理，未經第二組驗證。
+
+**降級情境前後的首屏名額（Chromium；注入的人造資料，非真實行情；390×844、1280×800；前＝`875b1955`、後＝本批；原始數字 `docs/evidence/bl0536_shell_h5_2026-11-03/measurements_before_875b1955.jsonl`、`measurements.jsonl`）**
+
+| 情境 | 390 前 | 390 後 | 1280 前 | 1280 後 | 備註 |
+|---|---|---|---|---|---|
+| 常態（normal／partial／stale） | 5 | 5 | 5 | 5 | 無降級項 |
+| 台股缺（missing） | 5 | 5 | 5 | 5 | 依據格內一枚狀態 chip（算一格） |
+| 美股取數失敗（failed） | 5 | 5 | 5 | 5 | 失敗警示在依據格與 Status Bar「其中 1 項取數失敗」 |
+| 無利率來源設定（nokey）比較檢視 | 5 | 5 | 5 | 5 | 利率不在首屏；Status Bar 計數句可見 |
+| 兩序列皆缺（both_missing） | **7** | **5** | **7** | **5** | 圖下原本 2 枚狀態 chip → 一行文字摘要 |
+| 全缺（all_missing） | **7** | **5** | **7** | **5** | 同上 |
+| 三源皆取數失敗（all_failed） | **7** | **5** | **7** | **5** | 同上；失敗與缺資料字樣各自獨立 |
+| 美10Y 檢視＋未設定來源（nokey） | — | 5 | — | 5 | 後：摘要行為「⛔ 利率資料來源尚未設定」完整句（非失敗字樣） |
+
+AppTest 守衛（`tests/ui_v3/test_ui_v3_degraded_first_screen_budget.py`）另以九個情境×四個檢視鎖 DOM 名額（頁級 chip 恆 3、核心數字格恆 2、Status Bar 與側欄零 chip），並含兩個負控（舊的逐序列 chip 版面必超過 5、Status Bar 放一枚 chip 名額必加一）。⚠ AppTest 不載入 CSS，「可視」以 Playwright 量測為準；本批只量 Chromium，真實 Yahoo／FRED、iOS／Android 實機、Safari、深色模式皆未驗（仍在 BL-0536 待驗證清單）。
+
 **以下為裁示前的原文（加刪除線保留；狀態更新，不是漏刪）**
 
 ~~客戶要求兩者視覺上不混為一項。現況（Q1 A）共用一枚 `⬜ 無法判定` chip；Visual Budget（第 3.1 節）＝3 chip＋2 核心數字＝5，**剛好在 44 之十九其一之一第 2 條 ≤5 的上限**。拆成各一枚 chip ＝ 4 chip＋2 數字＝**6，超過上限**，依客戶指示「超過須停下回報」未實作。總管推薦方案待裁示：**(C) 兩列各自有欄位標籤與各自一枚 chip，同時把「基準日」從 chip 改成圖上純文字揭露行（字樣不變）→ 3 chip＋2 數字＝5，不 amend 44**；(A) 兩枚 chip 並 amend 44 預算為 ≤6（動 frozen 44，成本最高）；(B) 維持現況一枚共用 chip，兩個欄位名並排（不滿足「不要混成一項」）。本段由執行組單組整理，可被客戶推翻；未經第二組驗證。~~

diff --git a/docs/HANDOFF.md b/docs/HANDOFF.md
@@ -4,11 +4,12 @@
 > **歷史**：2026-11-03 Canonical Rule Convergence 批把舊版全文（543 行；含檔頭 40 則追加 checkpoint、24 個「第 N 次現況」框、舊下一步）逐字搬到 `docs/evidence/history/2026-11-03_handoff_pre_convergence.md`（**NOT CURRENT，不是現行規則或現況**）。更舊的交接本 `docs/handover_2026_09_26_latest.md` 為歷史紀錄（第 0 節永遠不准刪，客戶 2026-09-28 裁示）。本檔改寫依據：客戶 2026-11-03 指示（`DEC-2026-11-03-08`）；`PROJECT_RULES.md` 6.1.2「覆蓋、不累加」。
 
 > **⏯ Resume Checkpoint**（總管提供；接手先依 `PROJECT_RULES.md` 6.1.2 比對 GitHub，不一致以 GitHub 為準；本區塊覆蓋舊版）
-> - **查詢時點**：2026-11-03；**工作樹基底 main＝`3b40cbfb`**（Merge #1133：Canonical Rule Convergence＋New UI2 規則 A～I 落盤；含 #1131～#1133）；本批**未重查 GitHub**，接手先 `git fetch origin main`。
-> - **Open／Draft PR**：以 GitHub 為準（本批 Navigation Shell 的分支尚未 push、尚未開 PR；由總管處理）。
-> - **唯一下一接手點（單一）**：Navigation Shell 批（`DEC-2026-11-03-10`）的獨立稽核 → CI → 合併 → 客戶驗收 Preview（Shell 實作、H5 390px／1280px 量測與證據已完成，見 `docs/v2/80` 第 17 節、`docs/evidence/bl0536_shell_h5_2026-11-03/`）。
-> - **本批待客戶**：Shell pending 字樣定字（候選與推薦見 `docs/v2/80` 17.4）；確認 Status Bar 不計入首屏 chip／數字預算的讀法、資料全取得時不寫「正常」；更新資料 CTA 目前停用（無安全可接的正式 refresh 流程，17.3）。其後 wireframe Gate 順序仍是 💼 → 🔍 → ⚙（`docs/BACKLOG.md`）。
-> - **已裁示、不再待裁**：🌍 首屏「市場狀態」「是否需注意」拆兩枚 chip＝採 C（兩枚獨立 chip、基準日改圖表附近純文字揭露行、首屏 ≤5 不變、不修訂 frozen 44）；用字統一＝「⛔ 利率資料來源尚未設定」「美10Y」「美2Y」（`DEC-2026-11-03-09`；舊 BL-0539 已結案）。證據截圖拍於改版前，已於該目錄 README 註記過期。
+> - **查詢時點**：2026-11-03；**工作樹基底 main＝`875b1955`**（Merge #1134：Navigation Shell＋H5；含 #1131～#1134）；本批**未重查 GitHub**，接手先 `git fetch origin main`。
+> - **Open／Draft PR**：以 GitHub 為準（本批 Shell 定字與降級首屏收尾批的分支尚未 push、尚未開 PR；由總管處理）。
+> - **唯一下一接手點（單一）**：Shell 定字與降級首屏收尾批（`DEC-2026-11-03-11`）的獨立稽核 → CI → 合併；之後才做 💼 線框草稿（尚未開始，本批不做）。
+> - **本批已落地**：Shell 字樣已正式定字，單一 SSOT 在 `shared/ui_semantics/rules.py` 的 `shell_*` 鍵；Status Bar 與側欄狀態區維持純文字、不放 chip／核心數字元素；全取得不寫「正常」；降級情境第一屏由 7 個名額收斂為 5（方案比較與前後計數見 `docs/v2/81` 第 10.2 節，量測 `docs/evidence/bl0536_shell_h5_2026-11-03/`）。
+> - **仍待驗證（不得宣稱已通過；`docs/BACKLOG.md` BL-0536 逐條）**：iOS／Android 實機、Safari、深色模式、Yahoo／FRED 真實連線、Streamlit 升版後導覽相容性、安全的資料更新入口（更新資料 CTA 停用中；不得為完成 Shell 開新 refresh pipeline）。**待客戶確認**：狀態句內的「n／m 項已取得」不算頁級核心數字的讀法（若整句要算一個名額，降級會是 6，須回 Gate）。其後 wireframe Gate 順序仍是 💼 → 🔍 → ⚙。
+> - **已裁示、不再待裁**：🌍 首屏採 C 與用字統一（`DEC-2026-11-03-09`）；Shell 字樣、Status Bar 讀法、資料全取得不寫「正常」、降級首屏須 ≤5（`DEC-2026-11-03-11`）。
 
 ## 1. 必讀順序（新對話或換人接手）
 
@@ -27,7 +28,7 @@
 |---|---|
 | UI 三層邊界 | Old UI read-only；`ui_v2` maintenance-only；`ui_v3`＝New UI2 唯一未來正式（`DEC-2026-11-02-05`、`-06`）。正式 App 現況推定為 Old UI（Streamlit Cloud 設定，repo 內無法查證）；Preview App 平行驗收，尚未 cutover |
 | 現行五頁 | 🌍 市場與趨勢／💼 我的資產／🔍 找基金／🤖 AI 投資總結（Phase 7 前不掛導覽）／⚙ 設定（`PROJECT_RULES.md` 13.2 第 1 點；程式側 `ui_v3/shell/registry.py`） |
-| 🌍 | wireframe 已裁示（`DEC-2026-11-03-01`）；歸一化 A2／B2／C2、H1b／H2／H3、Preview rendering、九項正式字樣、首屏採 C 與用字統一已合併（#1125～#1132；`DEC-2026-11-03-07`、`-09`）。詳情看 `docs/BACKLOG.md` BL-0536 與 `docs/v2/81` |
+| 🌍 | wireframe 已裁示（`DEC-2026-11-03-01`）；歸一化 A2／B2／C2、H1b／H2／H3、Preview rendering、九項正式字樣、首屏採 C 與用字統一、Navigation Shell＋H5 已合併（#1125～#1134；`DEC-2026-11-03-07`、`-09`、`-10`）；Shell 定字與降級首屏收尾為本批（`-11`）。詳情看 `docs/BACKLOG.md` BL-0536 與 `docs/v2/81` |
 | 💼／🔍／⚙／🤖 | wireframe 尚未起草（順序 💼 → 🔍 → ⚙；🤖 依 Phase 7）；核准前不寫該頁 `ui_v3` 代碼 |
 | cutover | 未開始；強制驗收項 BL-0535 |
 | 本機環境 | `ui_v2` 摘要守衛要用 Python 3.11 跑（CI 為 3.11）；`.claude/worktrees` 殘留會讓檔案引用守衛誤紅，需要時在乾淨 worktree 驗 |
@@ -72,6 +73,6 @@
 
 ## 5. 本檔沒查證的部分
 
-- main `3b40cbfb` 為工作樹基底，**未重查 GitHub／CI**；#1133 已合併為 git log 所見，CI 結果未查。Shell 批的量測為 Chromium＋注入的人造資料，真實連線與實機瀏覽器未驗。
+- main `875b1955` 為工作樹基底，**未重查 GitHub／CI**；#1134 已合併為 git log 所見，CI 結果未查。本批的量測為 Chromium＋注入的人造資料，真實連線、Safari、實機、深色模式未驗；降級名額守衛是 DOM 計數（AppTest 不載入 CSS），可視計數以 Playwright 為準。
 - 第 3 節 BL-0538～BL-0540 為本批新登記，內容單組寫成、未經第二組驗證。
 - 舊版 HANDOFF 內「未查證」各條（約 60 條，多為 2026-10 月批次紀錄）隨全文搬至歷史檔，**不再是現行聲明**。

diff --git a/docs/evidence/bl0536_shell_h5_2026-11-03/README.md b/docs/evidence/bl0536_shell_h5_2026-11-03/README.md
@@ -4,10 +4,10 @@
 
 | 項 | 內容 |
 |---|---|
-| 來源 | `launch_injected_data.py`（把 `ui_v3.adapters.market_page.load` 換成 `tests/ui_v3/market_stubs.py` 替身後啟動 `ui_v3/app_preview.py`，`?scenario=` 切情境）＋ `measure.js`（Playwright chromium、`deviceScaleFactor` 2，量 DOM 座標並截圖）。兩支腳本只用來重現，不在任何測試或 CI 路徑 |
-| 量測日／基底 | 2026-11-03；工作樹基底 main `3b40cbfb`＋Navigation Shell 批未提交變更（提交後以該批 commit 為準） |
-| 原始數字 | `measurements.jsonl`（每行一個情境：`scrollWidth`／`clientWidth`、底部導覽與側欄是否顯示及座標、導覽項高度、Status Bar 文字、首屏可視高度、首屏 chip 與核心數字個數、Primary 圖座標；390 常態另含捲到底後頁尾與底部導覽的座標） |
-| 截圖 | `m_normal`、`m_partial`、`m_nokey`、`m_both_missing`（390×844）；`t768_normal`（768，仍是手機版面）、`t769_normal`（769，桌機版面）；`d_normal`、`d_failed`（1280×800） |
-| 結論 | 見 `docs/v2/80` 第 17.5 節：390 與 1280（另 768、769）皆無橫向捲動；四項首屏資訊與 Primary 圖起點可見；底部導覽不遮內容；首屏 3 chip＋2 數字＝5（不含 Status Bar，該讀法待客戶確認）。**5 僅指常態（complete）**；降級情境（both_missing 390px 為 7 chip＋2 數字、failed 1280px 為 4 chip＋2 數字）整個第一屏的 chip 形式元素較多，含 Primary 圖區的狀態 chip，這是 🌍 頁本體既有行為（#1132 之前即存在，非 Shell 引入）；摘要區（第一個標題之前）計數仍恆為 5；降級情境是否另需預算規則待客戶確認（總管讀法，不裁決） |
-| 限制 | 只量 Chromium；沒有實機 iOS／Android；深色模式底部列未驗；`partial` 情境是 S&P 歷史不足，Status Bar 資料狀態維持原樣（資料狀態只算主要序列的取得與否） |
-| 重現 | 在 repo 根目錄 `streamlit run docs/evidence/bl0536_shell_h5_2026-11-03/launch_injected_data.py --server.port 8599 --server.headless true`，再 `node measure.js <scenario> <width> <height> <out.png> [scroll]`（Playwright 路徑見腳本第一行） |
+| 來源 | `launch_injected_data.py`（把 `ui_v3.adapters.market_page.load` 換成 `tests/ui_v3/market_stubs.py` 替身後啟動 `ui_v3/app_preview.py`，`?scenario=` 切情境；情境：normal、partial、missing、failed、both_missing、nokey、stale、all_missing、all_failed）＋ `measure.js`（Playwright chromium、`deviceScaleFactor` 2，量 DOM 座標並截圖；可選第 6 參數點選主圖檢視標籤，環境變數 `PORT` 指定埠）。兩支腳本只用來重現，不在任何測試或 CI 路徑 |
+| 量測日／基底 | 初版 2026-11-03（#1134）。**本次重拍（Shell 定字與降級首屏收尾批，`DEC-2026-11-03-11`）**：2026-11-03；基底 main `875b1955`＋本批變更。`measurements_before_875b1955.jsonl` 是同一支 `measure.js` 對 `875b1955` 乾淨樹（臨時 git worktree，用完已移除）的重量，作為「前」 |
+| 原始數字 | `measurements.jsonl`（後）與 `measurements_before_875b1955.jsonl`（前）：每行一個情境×視窗；欄位含 `scrollWidth`／`clientWidth`、底部導覽與側欄是否顯示及座標、Status Bar 文字、首屏可視高度、**`firstScreenSlots`＝獨立 chip＋核心數字格（格內的 chip 不重複計；含 Status Bar 與側欄內的 chip）**、`standaloneChips`、`evidenceSlots`、`chromeChips`、`seriesStatusSummaryVisible`、`visibleWarning`。`chipsInFirstScreen`／`evidenceNumbersInFirstScreen` 是 #1134 的舊量法（巢狀 chip 重複計），保留供對照 |
+| 截圖 | 390×844：`m_<情境>.png`；1280×800：`d_<情境>.png`；768／769：`t768_normal`、`t769_normal`；`*_us10y`、`*_VIX` 為點選該檢視後的首屏。所有圖頂端有注入資料標示 |
+| 結論 | 見 `docs/v2/81` 第 10.2 節（降級情境前後計數與方案比較）與 `docs/v2/80` 第 17.5 節：後：九個情境在 390 與 1280 的第一屏名額皆為 5（前：both_missing、all_missing、all_failed 為 7）；Status Bar 與側欄零 chip；無橫向捲動；底部導覽不遮頁尾；五頁導覽與「開發中」「尚未開放」字樣；更新資料按鈕停用且原因為正式字樣「預覽版尚未開放更新資料」 |
+| 限制 | 只量 Chromium；沒有實機 iOS／Android、Safari；深色模式底部列未驗；Yahoo／FRED 未連線（人造資料）；Streamlit 升版後導覽相容性未驗（CSS 依賴內部 `data-testid`）；`partial` 情境是 S&P 歷史不足，Status Bar 資料狀態維持原樣（資料狀態只算主要序列的取得與否）。以上皆在 BL-0536 待驗證清單，**不得宣稱已通過** |
+| 重現 | 在 repo 根目錄 `streamlit run docs/evidence/bl0536_shell_h5_2026-11-03/launch_injected_data.py --server.port 8599 --server.headless true`，再 `node measure.js <scenario> <width> <height> <out.png> [scroll] [viewLabel]`（Playwright 路徑見腳本第一行；`launch_injected_data.py` 的 `ROOT` 寫死為本機 checkout 路徑） |

diff --git a/docs/evidence/README.md b/docs/evidence/README.md
@@ -25,7 +25,7 @@
 - 大檔與 JSON 報告以 `gzip -9 -n` 壓縮存放（逐位元組，避開 `check-added-large-files` 的 500KB 上限與文字類 hook 改寫）。
 - 文字原文若已實測無行尾空白、結尾單一換行，則原樣存放、不壓縮，方便直接閱讀與對照行號。
 - 逐字摘錄不改字；含禁詞時在該目錄 README 做撞字登記。
-- `bl0536_shell_h5_2026-11-03/`：Navigation Shell＋H5 390px／1280px 首屏量測（注入的人造資料，非真實行情；見該目錄 README）。
+- `bl0536_shell_h5_2026-11-03/`：Navigation Shell＋H5 390px／1280px 首屏量測，含降級情境前後計數（注入的人造資料，非真實行情；見該目錄 README）。
 - `bl0536_mkt_preview_2026-11-03/`：BL-0536 🌍 Preview rendering 截圖（注入的人造資料，非真實行情；見該目錄 README）。
 - `decisions/2026-11-03_vix_secondary_yield_ruling.md`：客戶 2026-11-03 裁示（Primary 為 VIX 時 Secondary VIX 卡讓位，採 A）逐字存檔；細節見 `decisions/README.md`。
 - `history/`：2026-11-03 Canonical Rule Convergence 批自現行文件**逐字搬出**的歷史內容（**NOT CURRENT**；每區塊 sha256 由 `tests/test_canonical_rule_consistency.py` 機械比對）；`canonical_convergence_2026-11-03/`：同批唯讀盤點報告存檔。細節見各目錄 `README.md`。
